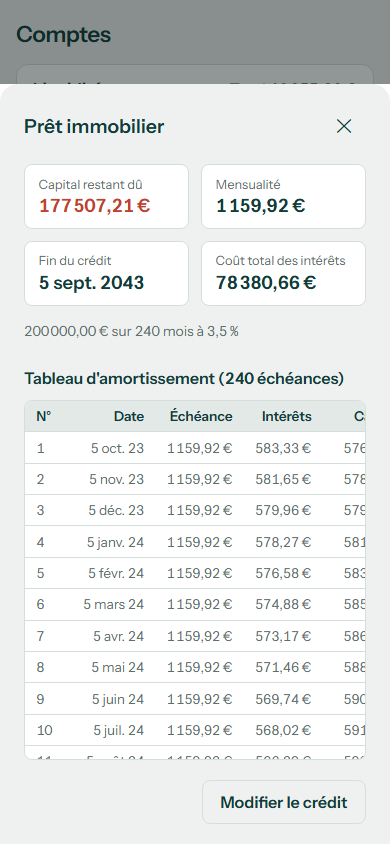
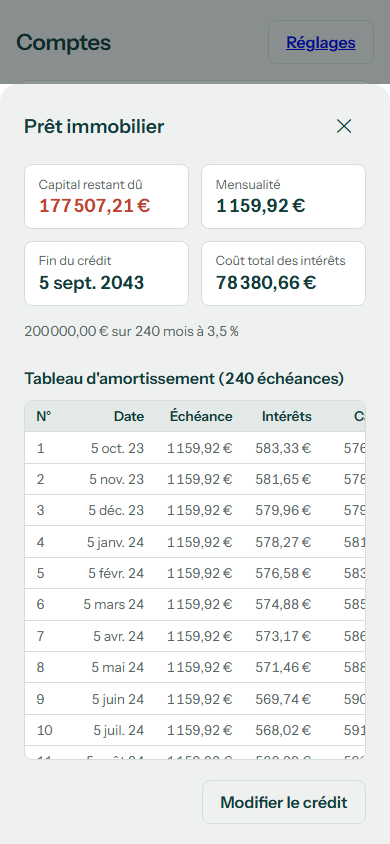
docs: captures des nouveaux écrans et résumé de fin de mission (tâches 0 à 16)

Changed region(s): [[0.0308, 0.0308, 0.3077, 0.0616], [0.7385, 0.0308, 0.9231, 0.0616]]

diff --git a/client/e2e/screenshots.spec.ts b/client/e2e/screenshots.spec.ts
@@ -1,5 +1,5 @@
 import { test } from '@playwright/test';
-import { goTo, loginDemo } from './helpers';
+import { goTo, loginDemo, registerNew } from './helpers';
 
 // Captures de chaque écran : SCREENSHOTS=1 npm run test:e2e -- screenshots
 test.skip(!process.env.SCREENSHOTS, 'captures uniquement sur demande (SCREENSHOTS=1)');
@@ -60,4 +60,51 @@ test('captures de tous les écrans', async ({ page }) => {
   await page.getByRole('link', { name: 'Voir mon patrimoine' }).click();
   await page.locator('.recharts-area').first().waitFor();
   await shot('09-patrimoine');
+
+  // phase 2
+  await goTo(page, 'Opérations');
+  await page.getByRole('radio', { name: 'Calendrier' }).click();
+  await page.getByRole('grid').waitFor();
+  await shot('10-calendrier');
+  await page.getByRole('radio', { name: 'Liste' }).click();
+
+  await page.goto('/annee');
+  await page.locator('.year-table').waitFor();
+  await shot('11-vue-annuelle');
+
+  const d = new Date();
+  await page.goto(`/recap/${new Date(d.getFullYear(), d.getMonth() - 1, 15).toISOString().slice(0, 7)}`);
+  await page.locator('.recap-table').waitFor();
+  await shot('12-recap');
+
+  await page.goto('/reglages');
+  await page.locator('main h1').waitFor();
+  await shot('13-reglages');
+  await page.getByRole('link', { name: 'Gérer' }).click();
+  await page.locator('.account-row').first().waitFor();
+  await shot('13b-regles');
+
+  await page.goto('/tags/week-end-lyon');
+  await page.locator('.hero-figure').waitFor();
+  await shot('14-tag');
+
+  await goTo(page, 'Comptes');
+  await page.locator('#partages').getByRole('link', { name: /Coloc/ }).click();
+  await page.getByRole('heading', { level: 1, name: 'Coloc' }).waitFor();
+  await shot('15-partages');
+
+  // thème sombre choisi dans Réglages
+  await page.goto('/reglages');
+  await page.getByRole('radio', { name: 'Sombre' }).click();
+  await goTo(page, 'Aperçu');
+  await page.waitForTimeout(800);
+  await shot('16-apercu-sombre');
+  await page.goto('/reglages');
+  await page.getByRole('radio', { name: 'Système' }).click();
+
+  // compte neuf : parcours de premier lancement
+  await page.evaluate(() => localStorage.removeItem('pecule_token'));
+  await registerNew(page, 'Camille');
+  await page.getByText('Étape 1 sur 3').waitFor();
+  await shot('17-premier-lancement');
 });

diff --git a/PROGRESS.md b/PROGRESS.md
@@ -1,27 +1,29 @@
 # Avancement
 
-## Résumé de fin de mission (2026-10-19, 2e feuille de route)
+## Résumé de fin de mission (2026-10-19, 3e feuille de route : tâches 0 à 16)
 
-**Ce qui marche** : les 10 tâches (0 à 9) sont faites. Nouveautés de cette version :
-- **Prévision** : « Tu peux dépenser X €/jour jusqu'au N », fin de mois estimée, détail du calcul. Les virements récurrents
-  ont été ajoutés pour l'épargne prévue.
-- **Abonnements** : page dédiée, détectés depuis les libellés bancaires, alerte de hausse de prix, « suivre comme récurrence ».
-- **Patrimoine net** : placements valorisés, crédits avec tableau d'amortissement, vue sur 24 mois. Placements et crédits
-  sont exclus des stats, des budgets et des prévisions.
+**Ce qui marche** : toutes les tâches 0 à 16 sont faites, aucune n'est bloquée.
+- **Socle** : serveur découpé (`src/routes/` un fichier par domaine, `lib.js`, modules de calcul purs), routes inchangées.
+- **Phase 2** : code-splitting (JS initial 90 kB gzip, vérifié à chaque build), « Annuler » après suppression, premier
+  lancement en 3 écrans, Réglages (thème, profil, mot de passe, export), raccourcis clavier, axe sans violation grave en
+  clair et en sombre ; règles de catégorisation et tags ; constats automatiques ; calendrier et vue annuelle ; récap
+  mensuel imprimable (≤ 2 pages A4) ; dépenses partagées ; fonctions IA facultatives (ticket en photo, assistant en
+  lecture seule), absentes sans `ANTHROPIC_API_KEY`.
 
-Dernière vérification : **76 tests API** (vitest), `tsc -b` et build OK, **32 tests Playwright** (1366×900, 390×844, PWA
-sur le build de prod, tests du parseur CSV), tous verts. Captures de chaque écran (27) dans `docs/screenshots/`.
+Dernière vérification : **131 tests API** (vitest), `tsc -b` et build OK, **67 tests Playwright** (1366×900, 390×844,
+PWA, axe, PDF), tous verts. Captures des écrans (45) dans `docs/screenshots/`. Les fonctions IA ont été testées avec un SDK
+simulé uniquement : aucun appel réel à l'API Claude n'a été fait (pas de clé sur la machine de dev).
 
-**Ce qui est bloqué** : rien dans le périmètre. Docker est hors périmètre (tâche 9) : le `Dockerfile` et le
-`docker-compose.yml` de la version précédente sont conservés mais **jamais construits** (Docker absent de la machine).
+**Ce qui est bloqué** : rien. Hors périmètre, comme demandé : Docker (le `Dockerfile` existant n'a jamais été construit),
+synchronisation bancaire, multi-devises, application native.
 
 **3 prochaines évolutions recommandées** :
-1. **Mensualités de crédit ventilées** : générer chaque échéance comme une opération récurrente, avec une part intérêts
-   (dépense) et une part capital (virement vers le compte de dette). Le budget et le patrimoine racontent alors la même histoire.
-2. **Découpage du bundle** (~700 Ko) : charger Recharts, la page Patrimoine et la modale d'import à la demande
-   (`React.lazy`). Le premier affichage sur mobile en profitera.
-3. **Sauvegarde / restauration** : export JSON complet (comptes, valorisations, crédits, règles, objectifs) et
-   sauvegarde planifiée de `money.db`. C'est indispensable avant d'y mettre de vraies données.
+1. **Essai réel des fonctions IA** avec une clé : régler l'effort et le prompt du ticket sur une dizaine de vraies photos,
+   et mesurer coût et délai par question de l'assistant avant de l'ouvrir à d'autres utilisateurs.
+2. **Sauvegarde / restauration** : export JSON complet (comptes, règles, tags, groupes, objectifs) et sauvegarde planifiée
+   de `money.db`, indispensable avant d'y mettre de vraies données.
+3. **Mensualités de crédit ventilées** : générer chaque échéance en part intérêts (dépense) + part capital (virement vers la
+   dette), pour que budget et patrimoine racontent la même histoire.
 
 ## Feuille de route
 
